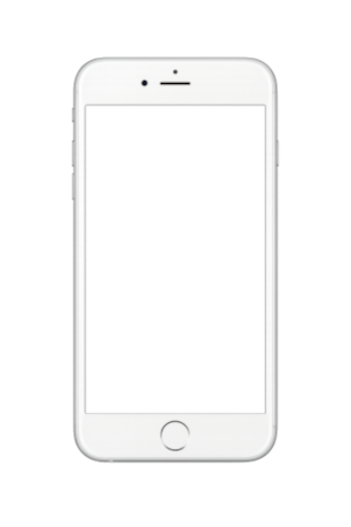
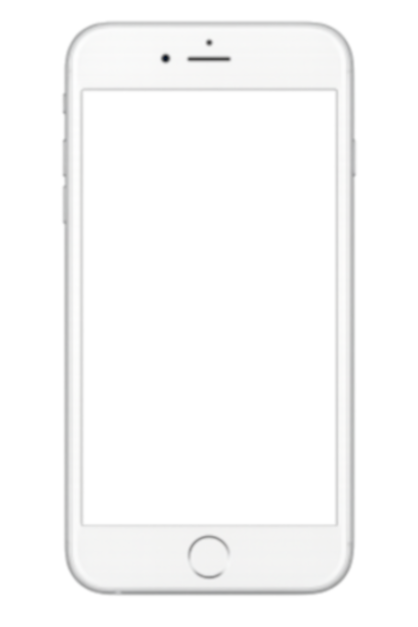
Página principal

Changed region(s): [[0.1425, 0.0304, 0.8547, 0.9715]]

diff --git a/estilos/style.css b/estilos/style.css
@@ -12,10 +12,15 @@ html, body{
     background-color: black;
 }
 
+body{
+    background: url('../imagens/fundo-madeira.jpg') no-repeat top center;
+    background-size: cover;
+    background-attachment: fixed;
+}
+
 main{
     position: relative;
     height: 100vh;
-    background-color: green;
 }
 
 section#telefone{
@@ -23,7 +28,7 @@ section#telefone{
     top: 50%;
     left: 50%;
     transform: translate(-50%, -50%);
-    height: 500px;
-    width: 500px;
-    background: blue url('') no-repeat;
+    height: 627px;
+    width: 400px;
+    background:  url('../imagens/frame-iphone.png') no-repeat;
 }
